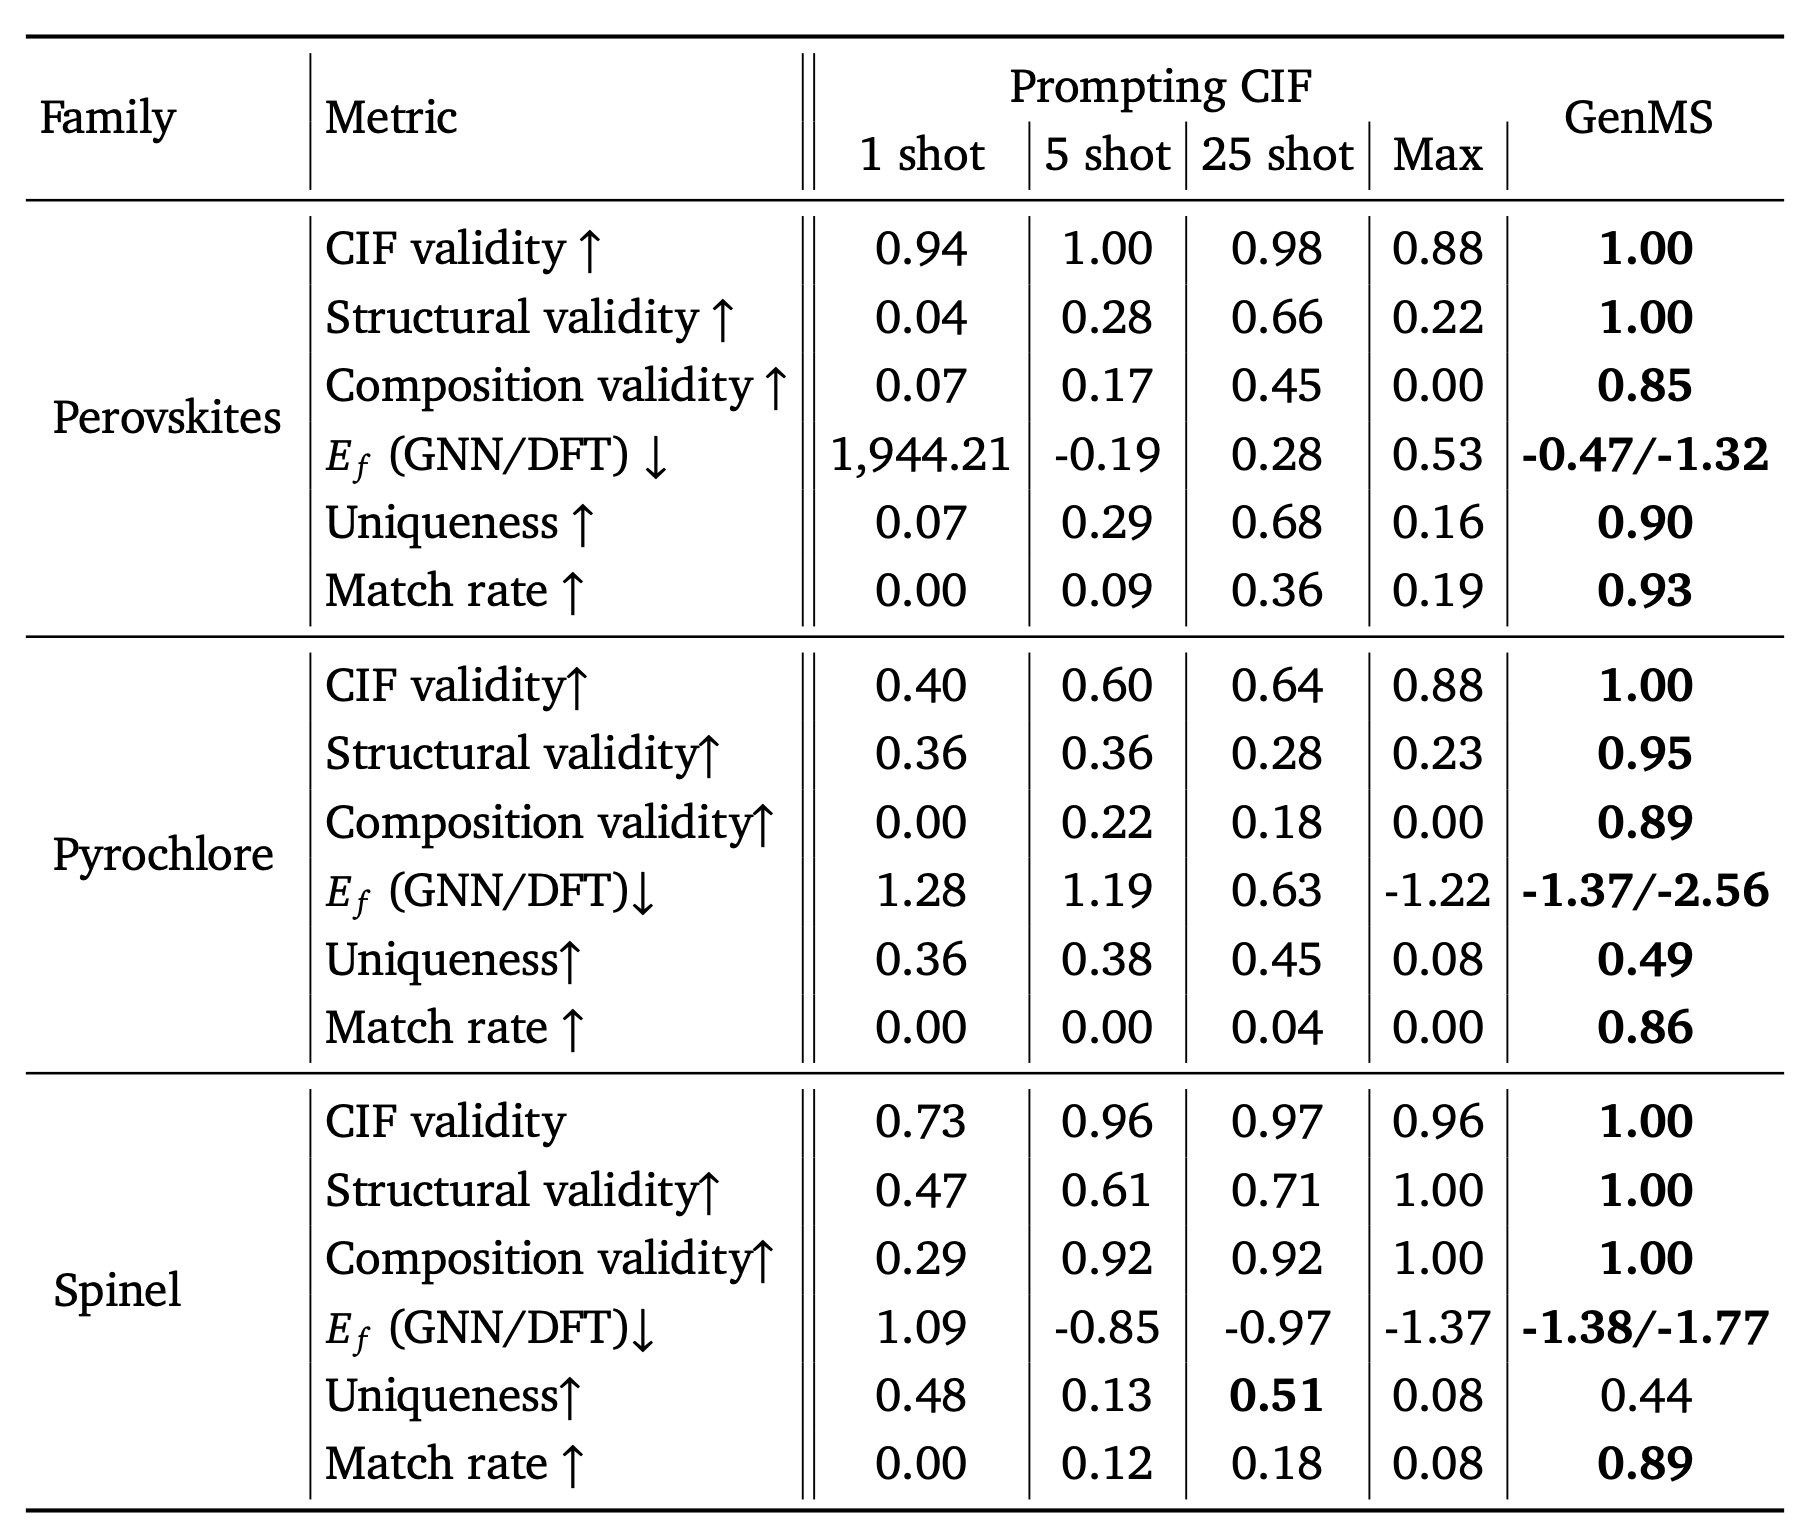
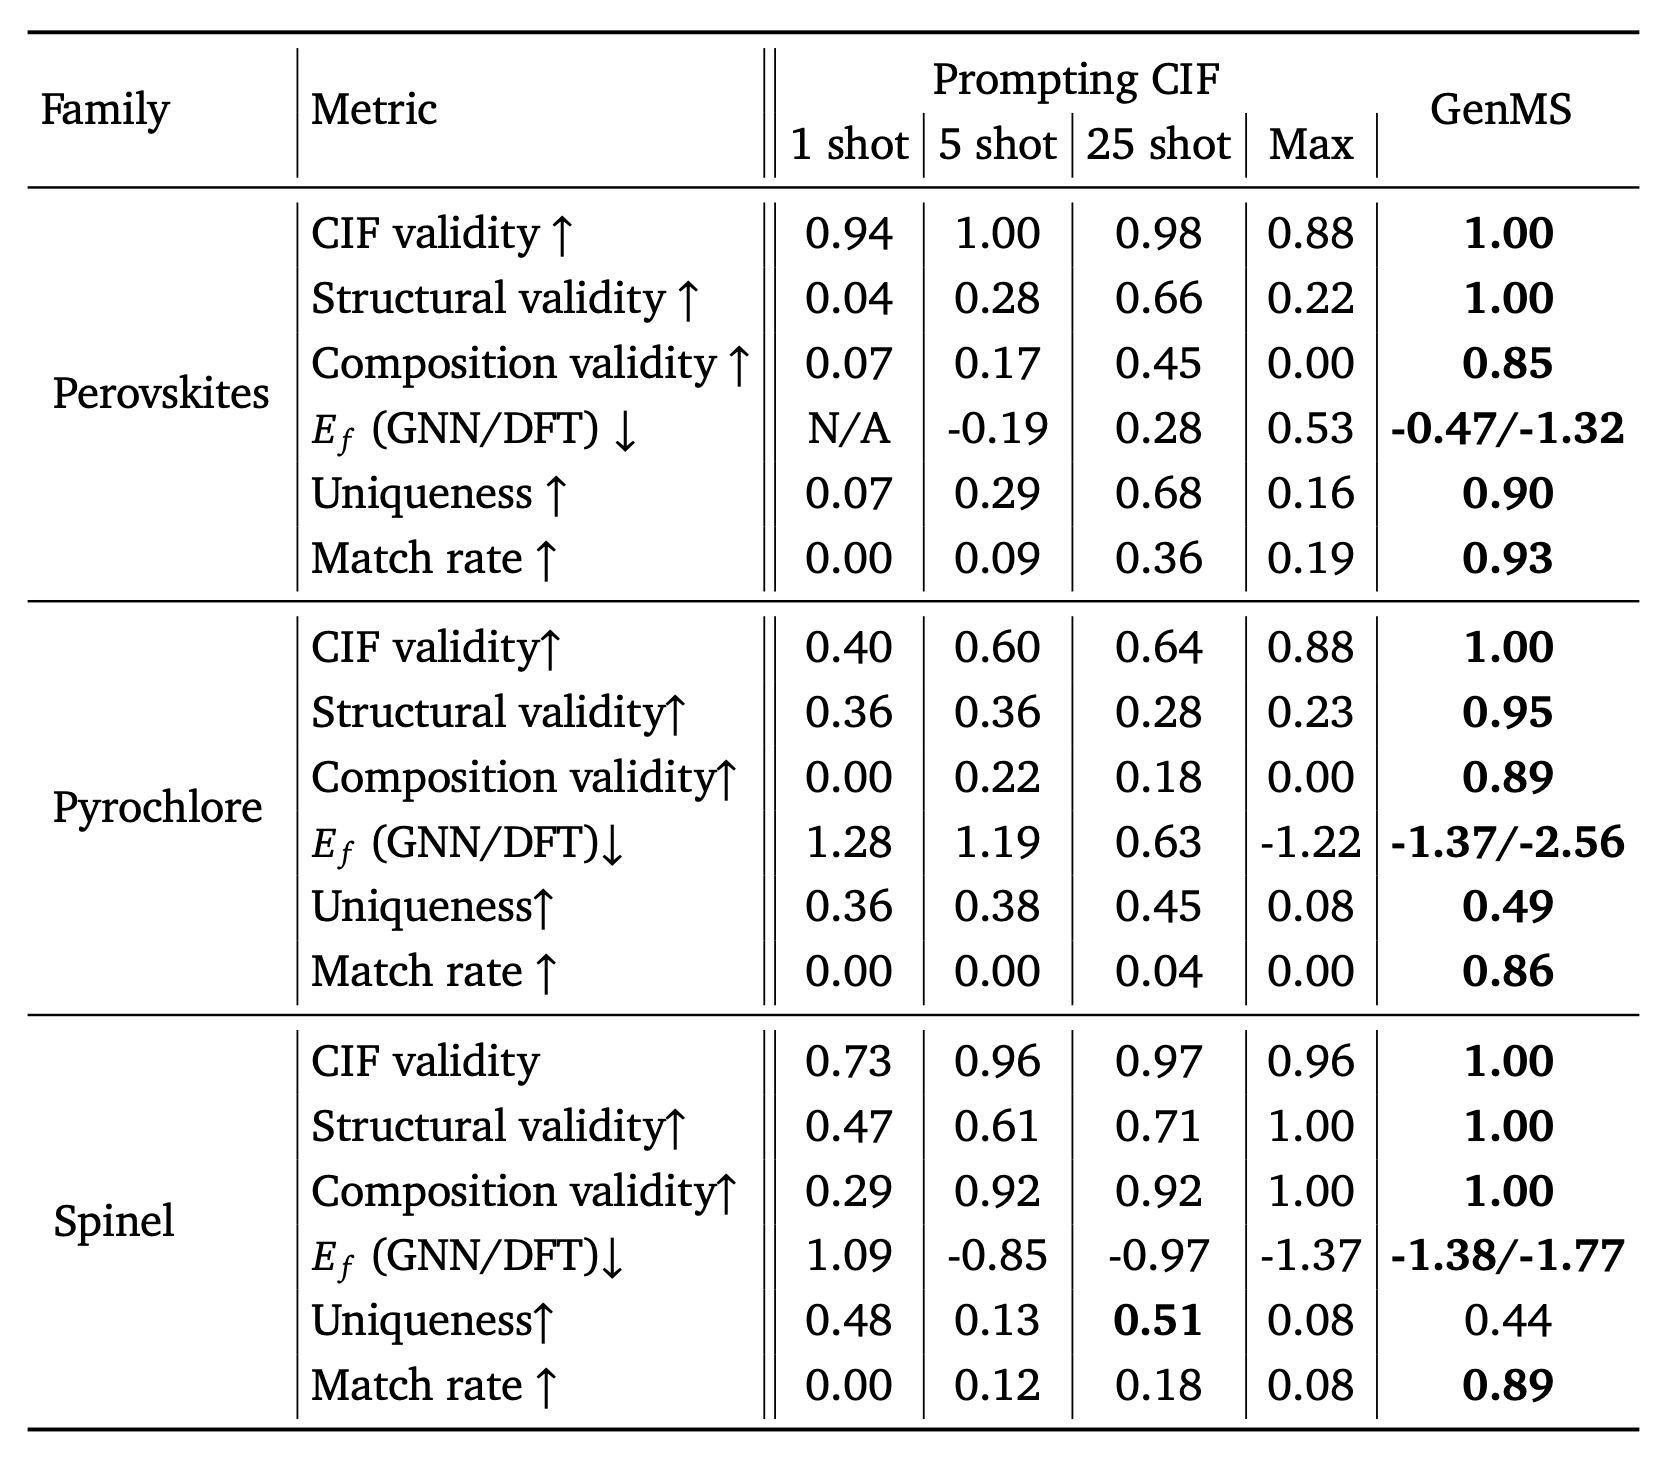
update

diff --git a/index.html b/index.html
@@ -142,7 +142,8 @@
 <div class="copy" >
   <div class=content id="evaluation">    
     <h2><span style="font-weight: 400;">Evaluation</span></h2>
-    <p>We first conduct end-to-end evaluation of generating crystal structure from natural language for three families of crystals. Generative Hierarchical Materials Search (GenMS) significantly outperforms LLM prompting baselines in producing unique and low-energy (predicted by GNN) structures that satisfy user request. We further conduct DFT calculation to compute   on structures generated by GenMS. DFT calculations for baselines are eliminated as many structures from the baselines do not follow user instruction.
+
+    <p>We first conduct end-to-end evaluation of generating crystal structure from natural language for three families of crystals. Generative Hierarchical Materials Search (GenMS) significantly outperforms LLM prompting baselines in producing unique and low-energy (predicted by GNN) structures that satisfy user request. We further conduct DFT calculation to compute formation energy in eV/atom averaged across structures generated by GenMS. Values before "/" in the row "(GNN/DFT)" represent GNN predicted formation energy, and after ``/'' represent DFT computed formation energy. We report formation energy from GNN prior to relaxation, and formation energy from DFT post relaxation. DFT calculations for baselines are eliminated as many structures from the baselines do not follow user instruction. N/A represents $E_f$ predicted by GNN falling outside of the reasonable range.
     </p>
 
 <div class="single-image width-content">
